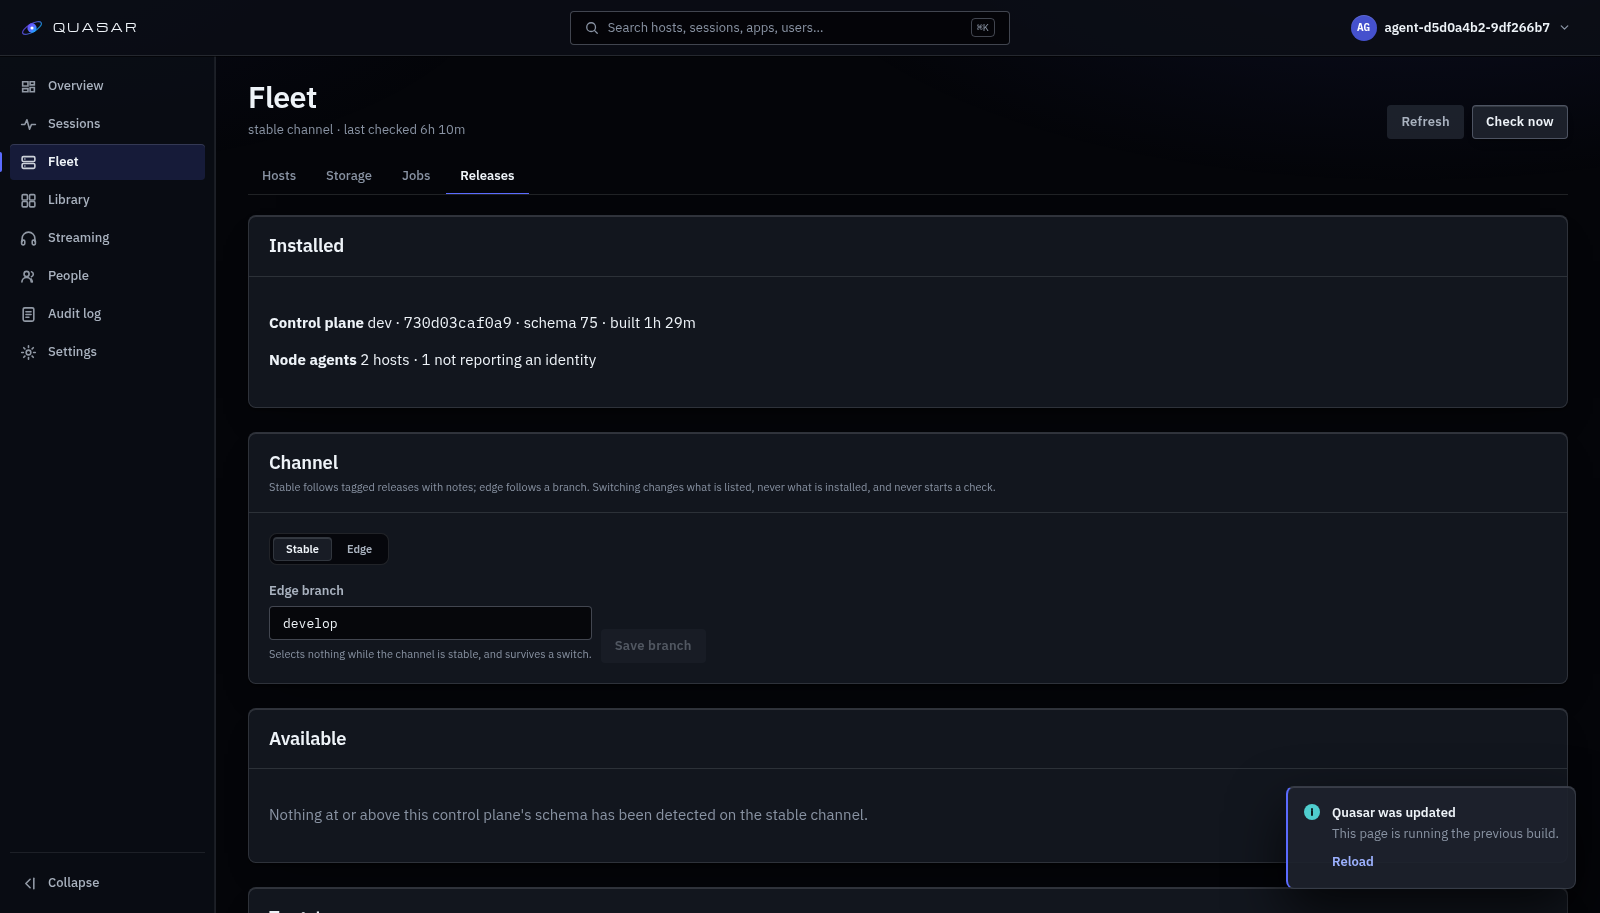
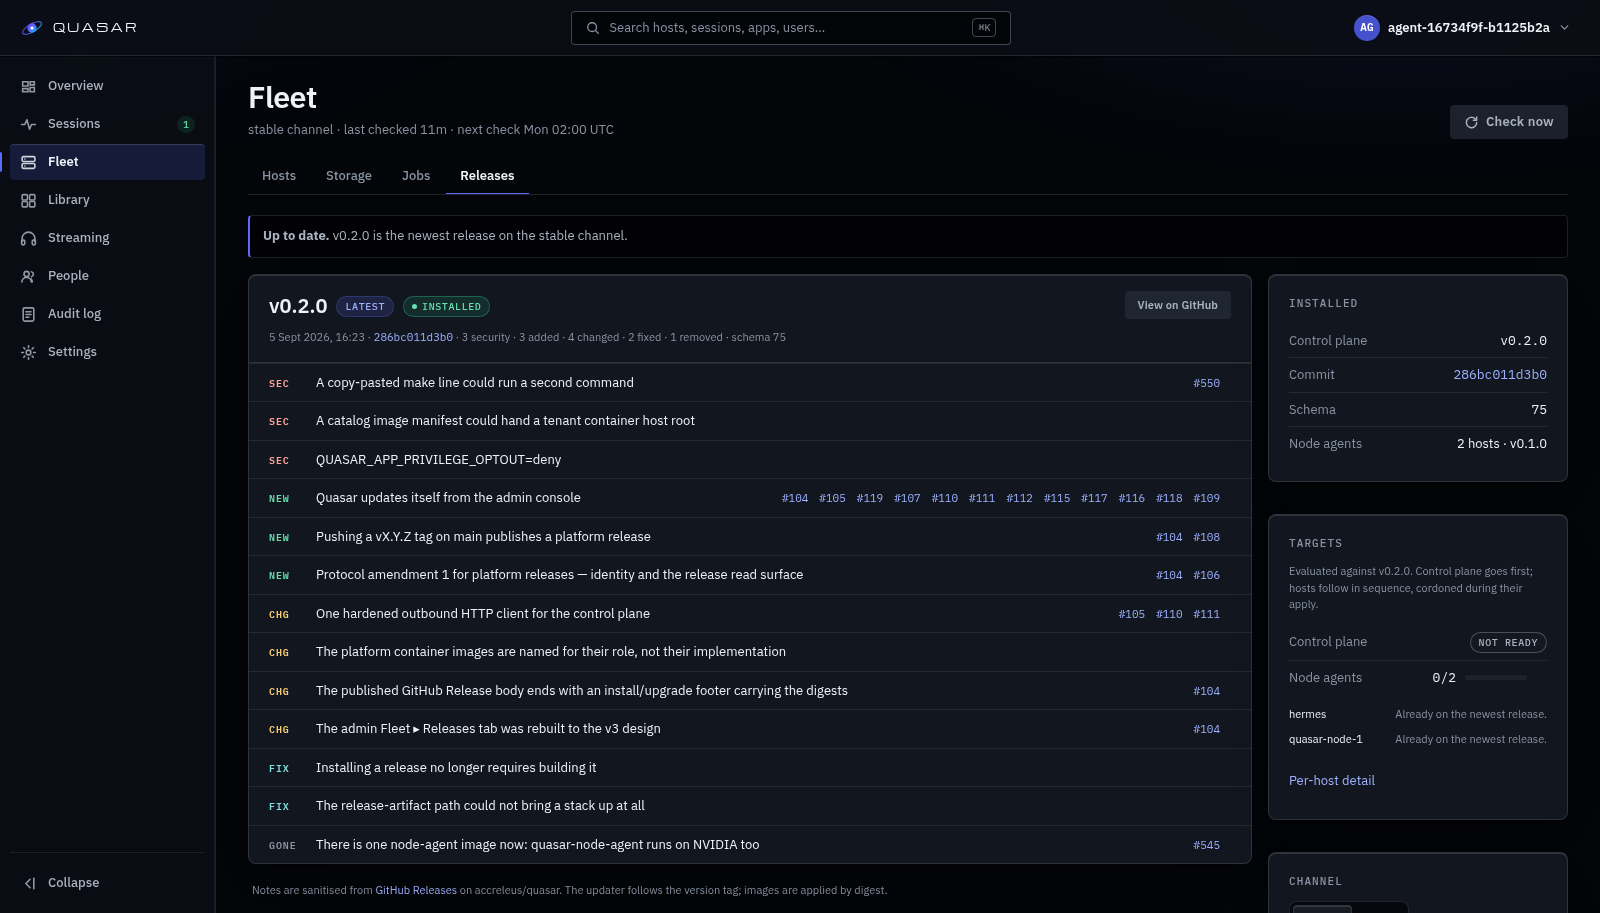
docs(site): Releases screenshot from the live v0.2.0 console (#104)

diff --git a/site/SCREENSHOTS.md b/site/SCREENSHOTS.md
@@ -22,7 +22,7 @@ they came from, how to retake them, and what is still worth adding.
 | `admin/users.mdx` | `admin-invites.png` | Registration mode and outstanding invites. |
 | `admin/releases.mdx` | `admin-releases.png` | The Releases tab: installed identity, the channel controls, and an instance with nothing available. |
 
-`admin-releases.png` should be retaken once a real published release with notes
+`admin-releases.png` should be — taken 2026-09-06 on a registry install running v0.2.0 with the real release notes.
 exists. The current shot is an instance that is already current, so the Available
 section reads as empty and neither the Targets table nor Apply history is in
 frame; the page is more useful when it has a release to show.
